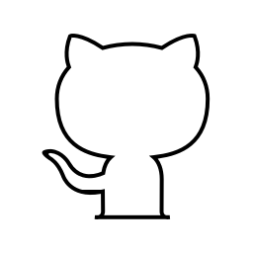
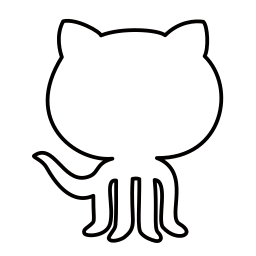
IMG + STRUCTURE + CSS - Links functions on hover

Changed region(s): [[0.1107, 0.0553, 0.8854, 0.9684]]

diff --git a/src/index.css b/src/index.css
@@ -21,6 +21,7 @@ body {
   flex-direction: column;
   height: 100vh;
   justify-content: center;
+  overflow: hidden;
   width: 100vw;
 }
 
@@ -45,7 +46,6 @@ body a:hover {
 
 .home {
   height: 100vh;
-  overflow: hidden;
   position: relative;
   width: 100vw;
 }
@@ -98,6 +98,10 @@ body a:hover {
 .home a {
   animation: blink 2s infinite;
   font-size: 1.5rem;
+}
+
+.home a:hover {
+  color: var(--pink);
 }
 
 /* -------------------BACKGROUND--------------------- */
@@ -229,6 +233,7 @@ body a:hover {
   display: grid;
   grid-template-rows: 1fr 1fr;
   height: 80vh;
+  position: relative;
 }
 
 .menu-links {
@@ -247,14 +252,35 @@ body a:hover {
   font-size: 3rem;
 }
 
+.menu-img {
+  animation: rotate 3s linear infinite;
+  bottom: 3rem;
+  filter: invert(1) brightness(0.2);
+  height: 15rem;
+  position: absolute;
+  visibility: hidden;
+}
+
+.skills-link-img, .contact-link-img {
+  left: -5rem;
+}
+
+.projects-link-img {
+  right: -5rem;
+}
+
 /* -------------------MESSAGE--------------------- */
 
+@keyframes slideDown {
+  from {transform: translateY(-300px);}
+  to {transform: translateY(0);}
+}
 .message-container {
-  /* border: 1px solid white; */
   align-items: center;
   display: flex;
   justify-content: center;
-}
+  animation: slideDown 0.4s;
+  }
 
 .message-image {
   background-color: palegoldenrod;
@@ -353,22 +379,20 @@ body a:hover {
   width: 100%;
 }
 
-.stack div {
+.stack img {
   align-self: center;
   animation: rotateIcons 2s infinite;
-  background-size: 90%;
-  background-position: center;
-  background-repeat: no-repeat;
-  border: 3px solid grey;
-  border-radius: 0.2rem;
-  box-shadow: inset -1px 1px 0 rgb(255, 255, 255), -1px 1px 0 rgb(53, 53, 53);
-  height: 3rem;
-  margin-bottom: 2rem;
-  width: 3rem;
+  filter: invert(1) brightness(0.4);
+  height: 3.4rem;
+  margin-bottom: 1rem;
+  transition: 1s;
+  width: 3.5rem;
 }
 
-.stack div:hover {
+.stack img:hover {
   animation: hovingIcons 2ms infinite;
+  filter: invert(1) brightness(1);
+  box-shadow: 10 0 20px white;
 }
 
 .stack li {
@@ -391,7 +415,6 @@ body a:hover {
 .projects {
   overflow-x: hidden;
   padding: 1rem;
-  text-decoration: none;
 }
 
 .project a {
@@ -481,19 +504,19 @@ body a:hover {
   font-size: 3rem;
 }
 
-.github {
+.github-link-img {
   animation: rotate 3s linear infinite;
   bottom: -10rem;
-  filter: invert(1);
+  filter: invert(1) brightness(0.2);
   position: absolute;
   right: 5rem;
   visibility: hidden;
 }
 
-.linkedin {
+.linkedin-link-img {
   animation: rotate 3s linear infinite;
   bottom: -10rem;
-  filter: invert(1);
+  filter: invert(1) brightness(0.2);
   left: 5rem;
   position: absolute;
   visibility: hidden;

diff --git a/src/routes/Contact.jsx b/src/routes/Contact.jsx
@@ -1,25 +1,5 @@
 import React from 'react';
-import { github, linkedin } from '../exports';
-
-function over({ target }) {
-  if (target.className === "github-link") {
-    const gitPic = document.querySelector('.github');
-    gitPic.style.visibility = 'visible';
-  } else {
-    const inPic = document.querySelector('.linkedin');
-    inPic.style.visibility = 'visible';
-  }
-}
-
-function out({ target }) {
-  if (target.className === "github-link") {
-    const gitPic = document.querySelector('.github');
-    gitPic.style.visibility = 'hidden';
-  } else {
-    const inPic = document.querySelector('.linkedin');
-    inPic.style.visibility = 'hidden';
-  }
-}
+import { github, linkedin, over, out } from '../exports';
 
 export default function Contact() {
   return (
@@ -48,8 +28,8 @@ export default function Contact() {
         </a>
       </div>
 
-      <img src={ github } alt="github" className="github" />
-      <img src={ linkedin } alt="linkedin" className="linkedin" />
+      <img src={ github } alt="github" className="github-link-img" />
+      <img src={ linkedin } alt="linkedin" className="linkedin-link-img" />
     </div>
   )
 }

diff --git a/src/exports/index.js b/src/exports/index.js
@@ -10,7 +10,14 @@ export { default as btn } from '../images/button.png';
 export { default as github } from '../images/github.png';
 export { default as linkedin } from '../images/linkedin.png';
 export { default as profile } from '../images/perfil.png';
+export { default as imgSkills } from '../images/cubo-3d.png';
+export { default as imgProjects } from '../images/retrato-falado.png';
+export { default as imgContact } from '../images/rede.png';
 
+export { default as fundamentals } from '../images/skills/codificacao.png';
+export { default as frontend } from '../images/skills/imagem.png';
+export { default as backend } from '../images/skills/designer-de-web.png';
+export { default as computer } from '../images/skills/navegador.png';
 
 export { default as Links } from '../components/Links';
 export { default as Message } from '../components/Message';
@@ -23,3 +30,5 @@ export { default as Skills } from '../routes/Skills';
 
 export { default as projectsDATA } from '../services/projectsDATA';
 export { default as skillsDATA } from '../services/skillsDATA';
+
+export { over, out } from '../services/showImagesOnHover';

diff --git a/src/components/Links.jsx b/src/components/Links.jsx
@@ -1,13 +1,35 @@
 import React from 'react';
 import { Link } from 'react-router-dom';
+import { over, out } from '../exports';
 
 export default function MenuLinks(linkClass) {
   return (
     <div className={ linkClass }>
       <Link to="/">Início</Link>
-      <Link to="/navigation/skills">Habilidades</Link>
-      <Link to="/navigation/projects">Projetos</Link>
-      <Link to="/navigation/contact">Me Ache!</Link>
+      <Link
+        to="/navigation/skills"
+        className="skills-link"
+        onMouseOver={ over }
+        onMouseOut={ out }
+      >
+        Habilidades
+      </Link>
+      <Link
+        to="/navigation/projects"
+        className="projects-link"
+        onMouseOver={ over }
+        onMouseOut={ out }
+      >
+        Projetos
+      </Link>
+      <Link
+        to="/navigation/contact"
+        className="contact-link"
+        onMouseOver={ over }
+        onMouseOut={ out }
+      >
+        Me Ache!
+      </Link>
     </div>
   );
 }

diff --git a/src/routes/Skills.jsx b/src/routes/Skills.jsx
@@ -1,17 +1,26 @@
 import React from 'react';
-import { skillsDATA } from '../exports';
+import { skillsDATA, fundamentals, frontend, backend } from '../exports';
+
+function icon(name) {
+  switch (name) {
+    case "frontend":
+      return frontend;
+    case "backend":
+      return backend;
+    default:
+      return fundamentals;
+  }
+}
 
 export default function Skills() {
   return (
-    <div className="category skills">
-      { skillsDATA.map(({ name, skills, icon }, index) => (
+    <div className="skills">
+      { skillsDATA.map(({ name, skills }, index) => (
         <div
           key={ index }
           className={ `stack ${name}` }
         >
-          <div
-            style={ { backgroundImage: `url(${icon})` } }
-          />
+          <img src={ icon(name) } alt={ name } />
 
           <ul>
             { skills.map((item, index) => (

diff --git a/src/services/skillsDATA.js b/src/services/skillsDATA.js
@@ -2,17 +2,14 @@ const skillsDATA = [
   {
     name: 'fundamentals',
     skills: ['Unix & Bash', 'Git & GitHub', 'HTML', 'CSS', 'JavaScript', 'Testes Unitários 🡦 Jest'],
-    icon: 'https://raw.githubusercontent.com/React95/React95/master/packages/icons/src/icons/access_227.ico'
   },
   {
     name: 'frontend',
     skills: ['React', 'Metodologias ágeis', 'React Testing Library', 'Redux'],
-    icon: 'https://raw.githubusercontent.com/React95/React95/master/packages/icons/src/icons/pbrush_1.ico'
   },
   {
     name: 'backend',
     skills: ['SQL', 'Normalização e modelagem de Banco de Dados', 'Docker', 'MongoDB'],
-    icon: 'https://raw.githubusercontent.com/React95/React95/master/packages/icons/src/icons/regedit.ico'
   }
 ];
 

diff --git a/src/routes/Menu.jsx b/src/routes/Menu.jsx
@@ -1,11 +1,15 @@
 import React from 'react';
-import { Links, Message } from '../exports';
+import { Links, Message, imgSkills, imgProjects, imgContact } from '../exports';
 
 export default function Menu() {
   return (
     <div className="page menu">
       <Message />
       { Links("menu-links") }
+      <img
+        className="menu-img skills-link-img" src={ imgSkills } alt="skills" />
+      <img className="menu-img projects-link-img" src={ imgProjects } alt="projects" />
+      <img className="menu-img contact-link-img" src={ imgContact } alt="contact" />
     </div>
   )
 }

diff --git a/src/services/showImagesOnHover.js b/src/services/showImagesOnHover.js
@@ -1,0 +1,12 @@
+export function over({ target: { className } }) {
+  console.log(`${className}-img`);
+  const img = document.querySelector(`.${className}-img`)
+  if (img) img.style.visibility = 'visible';
+};
+
+export function out({ target: { className } }) {
+  console.log(`${className}-img`);
+  const img = document.querySelector(`.${className}-img`)
+  if (img) img.style.visibility = 'hidden';
+};
+

diff --git a/src/Home.jsx b/src/Home.jsx
@@ -4,7 +4,7 @@ import { bg1, bg2, bg3, bg4, bg5 } from './exports';
 
 export default function Home() {
   return (
-    <div className="home">
+    <div className="page home">
       <div className="front">
         <div className="hero-title-container">
           <h1>Oi, eu faço sites!</h1>
